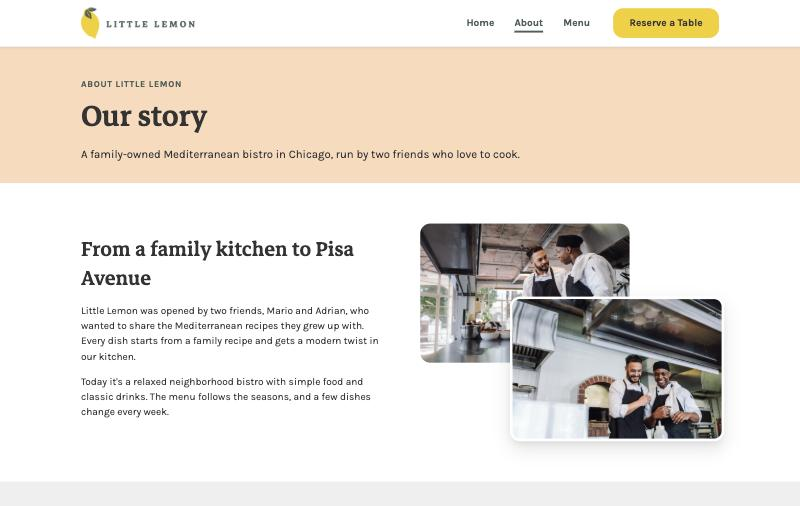
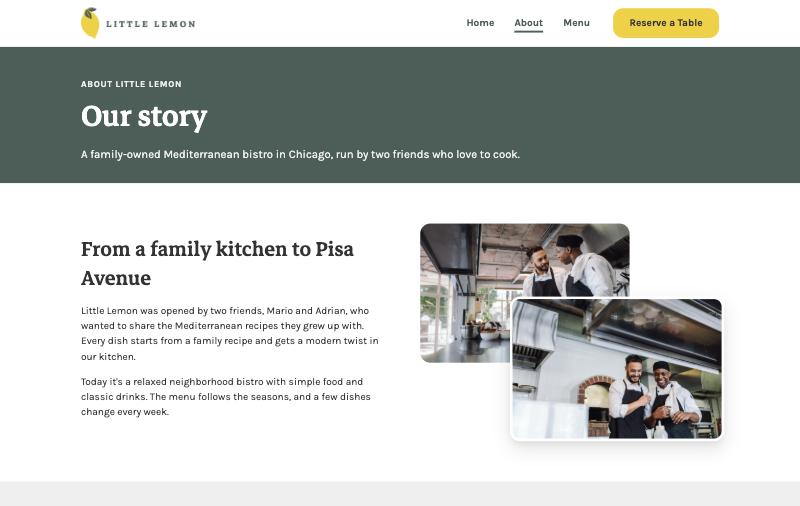
docs(readme): green header screenshots and design note

Changed region(s): [[0.0, 0.0889, 1.0, 0.3854]]

diff --git a/README.md b/README.md
@@ -67,7 +67,7 @@ All names, emails and bookings in these screenshots are fake test data.
 
 ![Home page specials: three photo cards (Bruschetta, Greek Salad, Lemon Dessert) with price badges and Vegetarian tags](docs/screenshots/home-specials-desktop.jpg)
 
-![Menu page: a peach header, the All, Starters, Mains, Desserts and Drinks tabs, and the Starters section with photos, dotted lines to the prices, and dietary tags](docs/screenshots/menu-desktop.jpg)
+![Menu page: a green header, the All, Starters, Mains, Desserts and Drinks tabs, and the Starters section with photos, dotted lines to the prices, and dietary tags](docs/screenshots/menu-desktop.jpg)
 
 ![Booking page: the When and Your table steps filled in on the left, and the Your reservation summary on the right showing Friday, November 20, 2026 at 19:00 for 4 guests, outdoor](docs/screenshots/booking-desktop.jpg)
 
@@ -362,6 +362,7 @@ There is no Figma wireframe. I skipped that step and built the pages from the co
 The shared look lives in [`src/index.css`](src/index.css), so every page uses the same building blocks:
 
 - **Colours**: the brand green, yellow, salmon, peach, light grey and dark grey, plus one extra, a deep terracotta (`#b8501f`) for error marks, because the brand salmon is too light on white.
+- **Page headers**: the top of every inner page (Menu, About, Reserve a Table, My Reservations) is a brand-green band with a white title, the same green as the home page hero, so every page starts the same way. Peach is kept for small accents: dietary tags, icon circles and the selected seating card.
 - **Yellow means "act here"**: only the one main action on a screen is a yellow button (`.button-primary`). Other actions are green outline buttons (`.button-secondary`) or text links. The current page in the nav is underlined, not yellow.
 - **Spacing scale**: `--space-1` (4px) to `--space-8` (64px). Sections are 48px apart on phones and 64px from 768px up.
 - **Type scale**: Markazi Text for headings, Karla for text. Page titles and section titles grow with the screen using `clamp()`, from 40px to 64px for page titles.
@@ -379,14 +380,14 @@ Every text and background pair is checked against WCAG 2.1 AA by a small script 
 | --- | --- | --- | --- | --- | --- |
 | dark | white | 12.63:1 | 4.5:1 | Pass | Body text on the page |
 | dark | light | 10.94:1 | 4.5:1 | Pass | Body text on grey bands |
-| dark | peach | 9.53:1 | 4.5:1 | Pass | Text on peach header bands |
+| dark | peach | 9.53:1 | 4.5:1 | Pass | Text on peach panels (booking summary info, selected seating card) |
 | green | white | 6.95:1 | 4.5:1 | Pass | Links, prices, secondary buttons on white |
 | green | light | 6.02:1 | 4.5:1 | Pass | Links and prices on grey bands |
 | green | peach | 5.24:1 | 4.5:1 | Pass | Links on peach, secondary button hover |
 | dark | yellow | 8.23:1 | 4.5:1 | Pass | Primary button text |
 | dark | salmon | 5.68:1 | 4.5:1 | Pass | Primary button hover |
 | white | green | 6.95:1 | 4.5:1 | Pass | Text on green bands and the footer |
-| light | green | 6.02:1 | 4.5:1 | Pass | Footer text |
+| light | green | 6.02:1 | 4.5:1 | Pass | Footer text, page header lead and tabs |
 | yellow | green | 4.53:1 | 3:1 | Pass | Hero title on green (large text only) |
 | yellow | green | 4.53:1 | 3:1 | Pass | Focus ring on green |
 | white | greenHover | 5.17:1 | 4.5:1 | Pass | Hero outline button text on hover |
